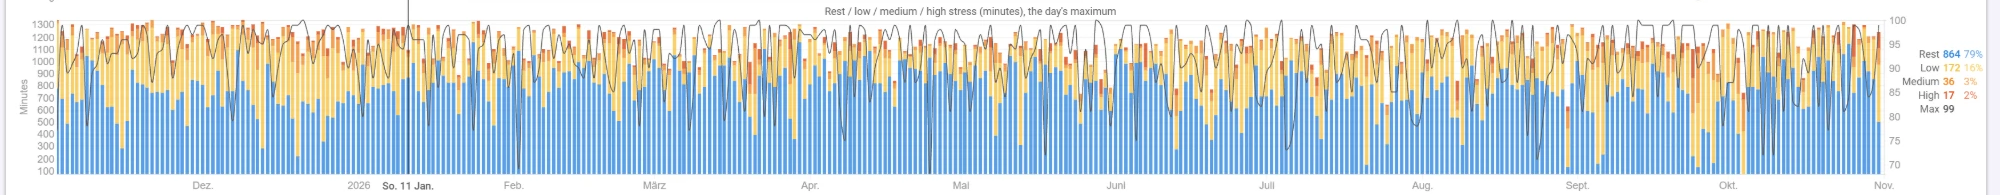
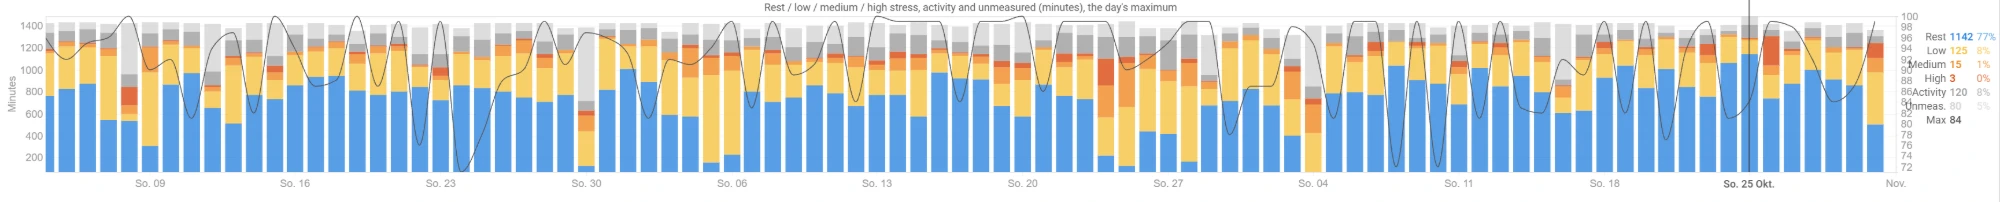
README: the stress levels chart with its grey parts (0.12.13)

diff --git a/README.md b/README.md
@@ -422,7 +422,7 @@ minutes in rest, low, medium and high stress, stacked as in Garmin Connect, the 
 activities and the time Garmin could not measure on top in grey, and the day's maximum):
 
 <p align="center">
-<img src="https://raw.githubusercontent.com/futureweb/garmin-intervals-bridge/main/docs/images/chart-stress-levels.png" alt="Stress levels chart: the minutes in rest, low, medium and high stress stacked per day, the day's maximum as a line" width="900">
+<img src="https://raw.githubusercontent.com/futureweb/garmin-intervals-bridge/main/docs/images/chart-stress-levels.png" alt="Stress levels chart: the minutes in rest, low, medium and high stress stacked per day, activity and unmeasured time in grey on top, the day's maximum as a line" width="900">
 </p>
 
 Each is built from the fields the bridge
